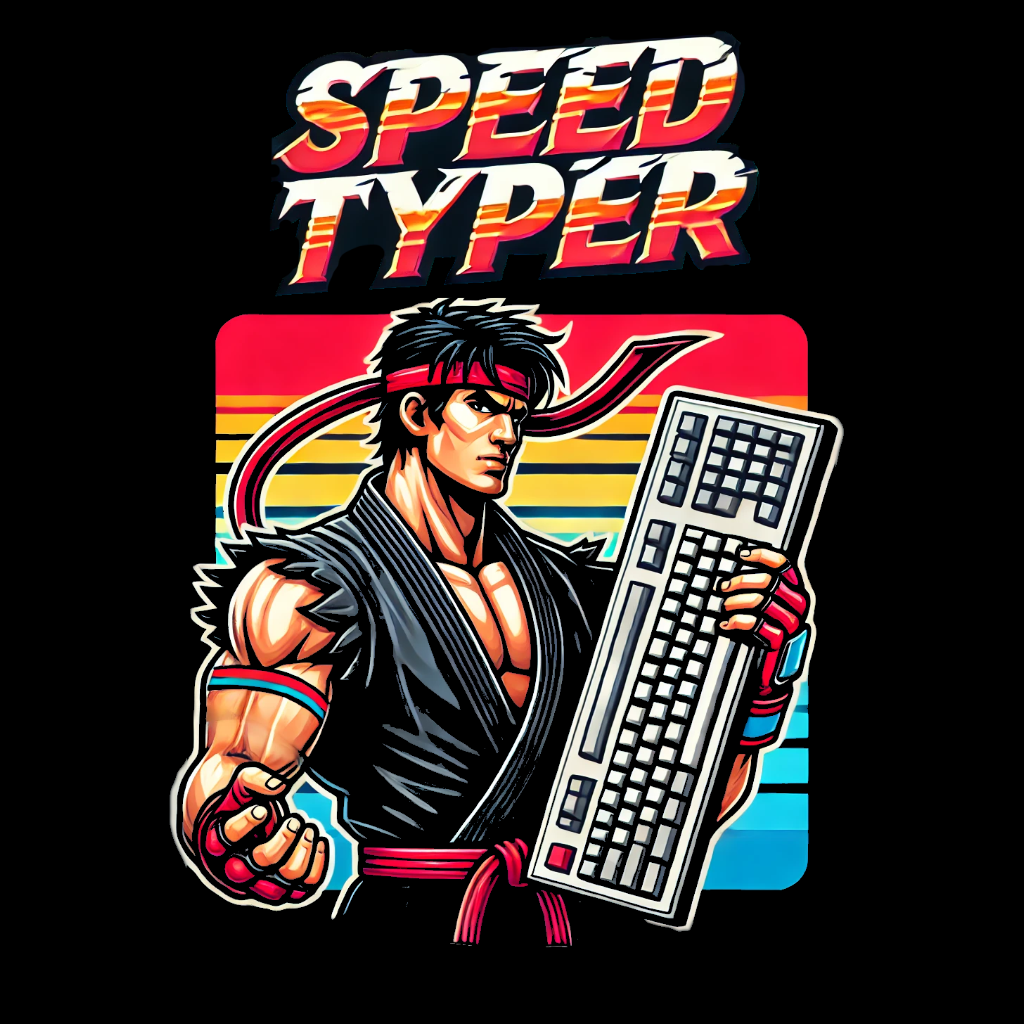
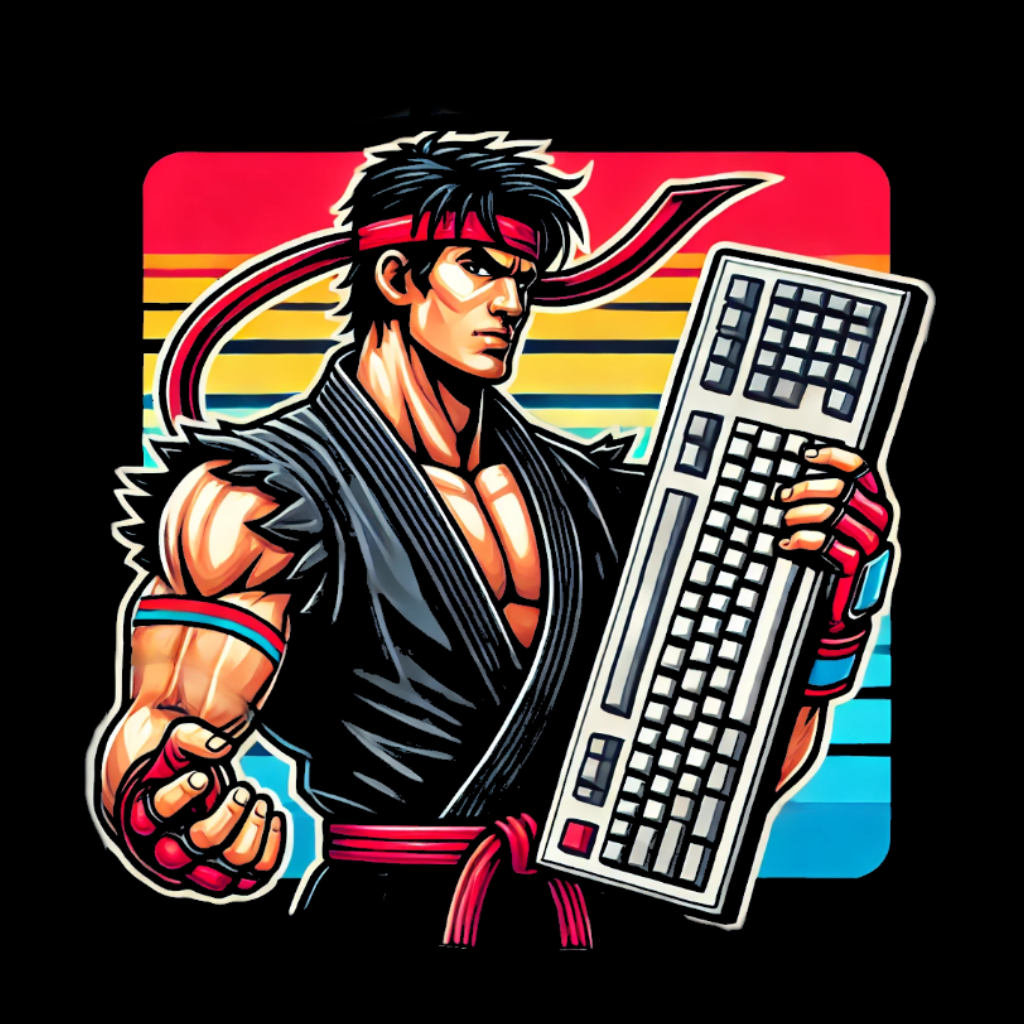
Changes Speed Typer photo

diff --git a/components/projects.jsx b/components/projects.jsx
@@ -15,7 +15,7 @@ import { Calendar } from "@/components/ui/calendar"
 import AnimatedBeamMultipleOutputDemo from "@/components/animated-beam-example"
 import { BentoCard, BentoGrid } from "@/components/ui/bento-grid"
 import { Marquee } from "@/components/ui/marquee"
-import bg from "@/public/speed_typer_.png"
+import bg from "@/public/speed_typer.png"
 import Image from 'next/image'
 import styles from './styles/projects.module.css';
 
@@ -65,7 +65,7 @@ const Container = ({ className }) => {
 			description: dictionary[lang]['features']['description'][1],
 			href: '/speed-typer',
 			cta: dictionary[lang]['cta'],
-			className: 'row-start-2 lg:col-start-2 col-span-3 lg:col-span-2',
+			className: 'row-start-2 lg:col-start-3 col-span-3 lg:col-span-1',
 			background: (
 				// <SpeedTyperContainer className="absolute top-4 right-2 h-[300px] w-full scale-75 border-none [mask-image:linear-gradient(to_top,transparent_10%,#000_100%)] transition-all duration-300 ease-out group-hover:scale-90" />
 				<Image

diff --git a/components/styles/projects.module.css b/components/styles/projects.module.css
@@ -1,18 +1,24 @@
 .container {
+    width: stretch;
+    /* height: stretch;@ */
+    max-height: 25dvh;
     animation: scaleOutIn linear both;
     animation-timeline: view();
     animation-range: entry 0% entry 200%;
 
     @starting-style {
         scale: 100% 100%;
+        margin: 0;
     }
 }
 
 @keyframes scaleOutIn {
     0% {
         scale: 100%;
+        margin: 0;
     }
     100% {
-        scale: 65%;
+        scale: 100%;
+        margin: 12.5vw;
     }
 }
